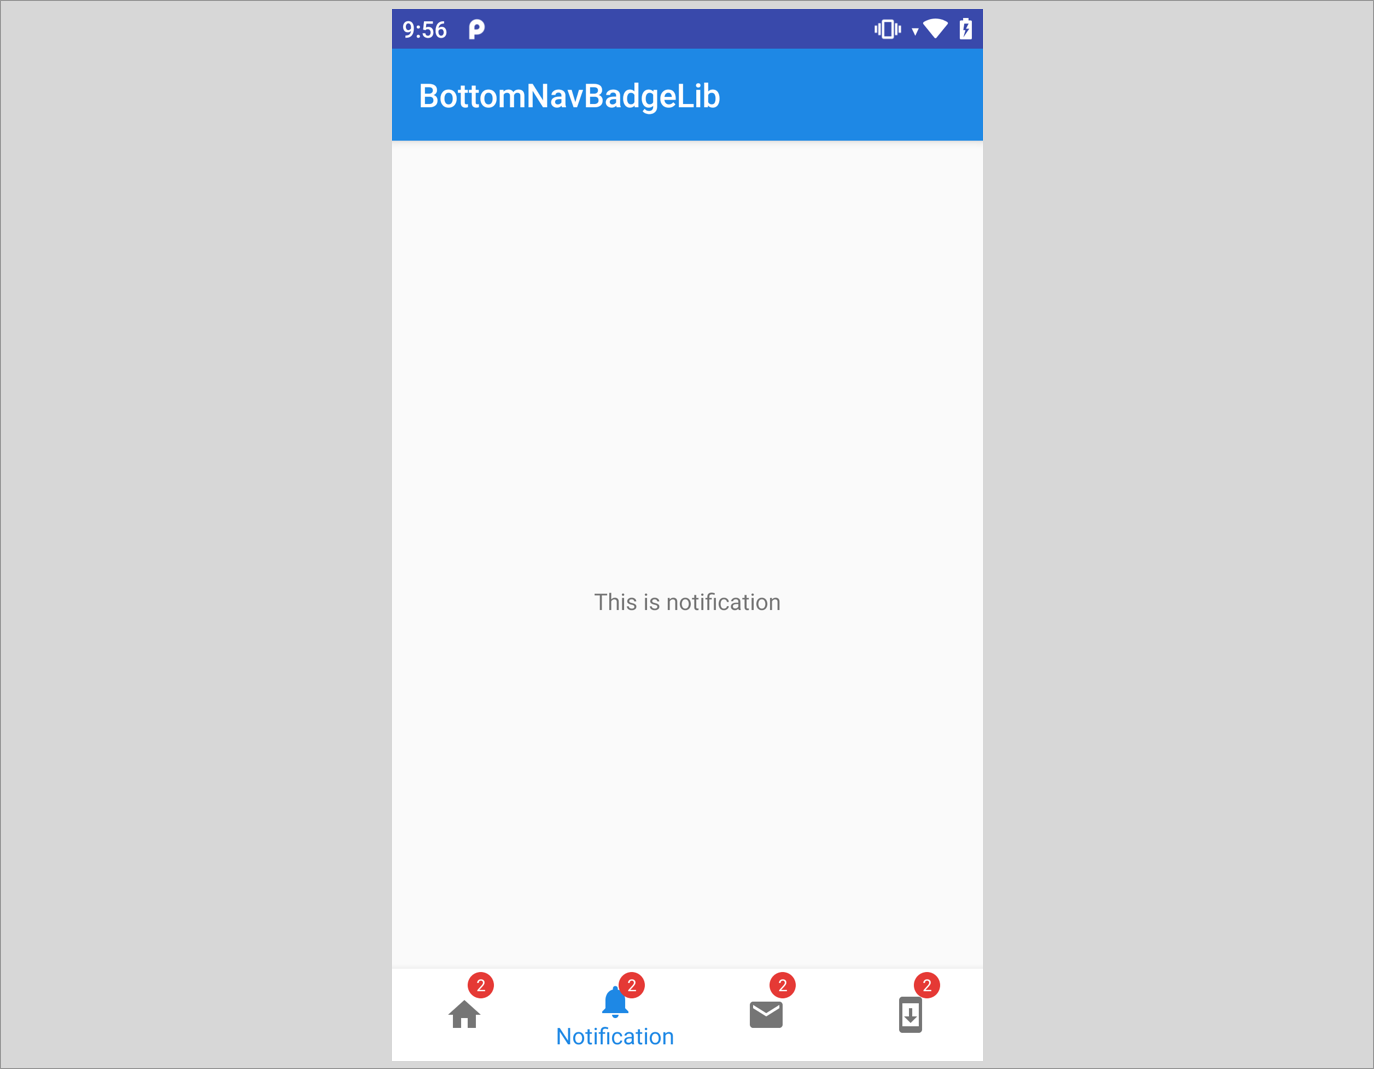
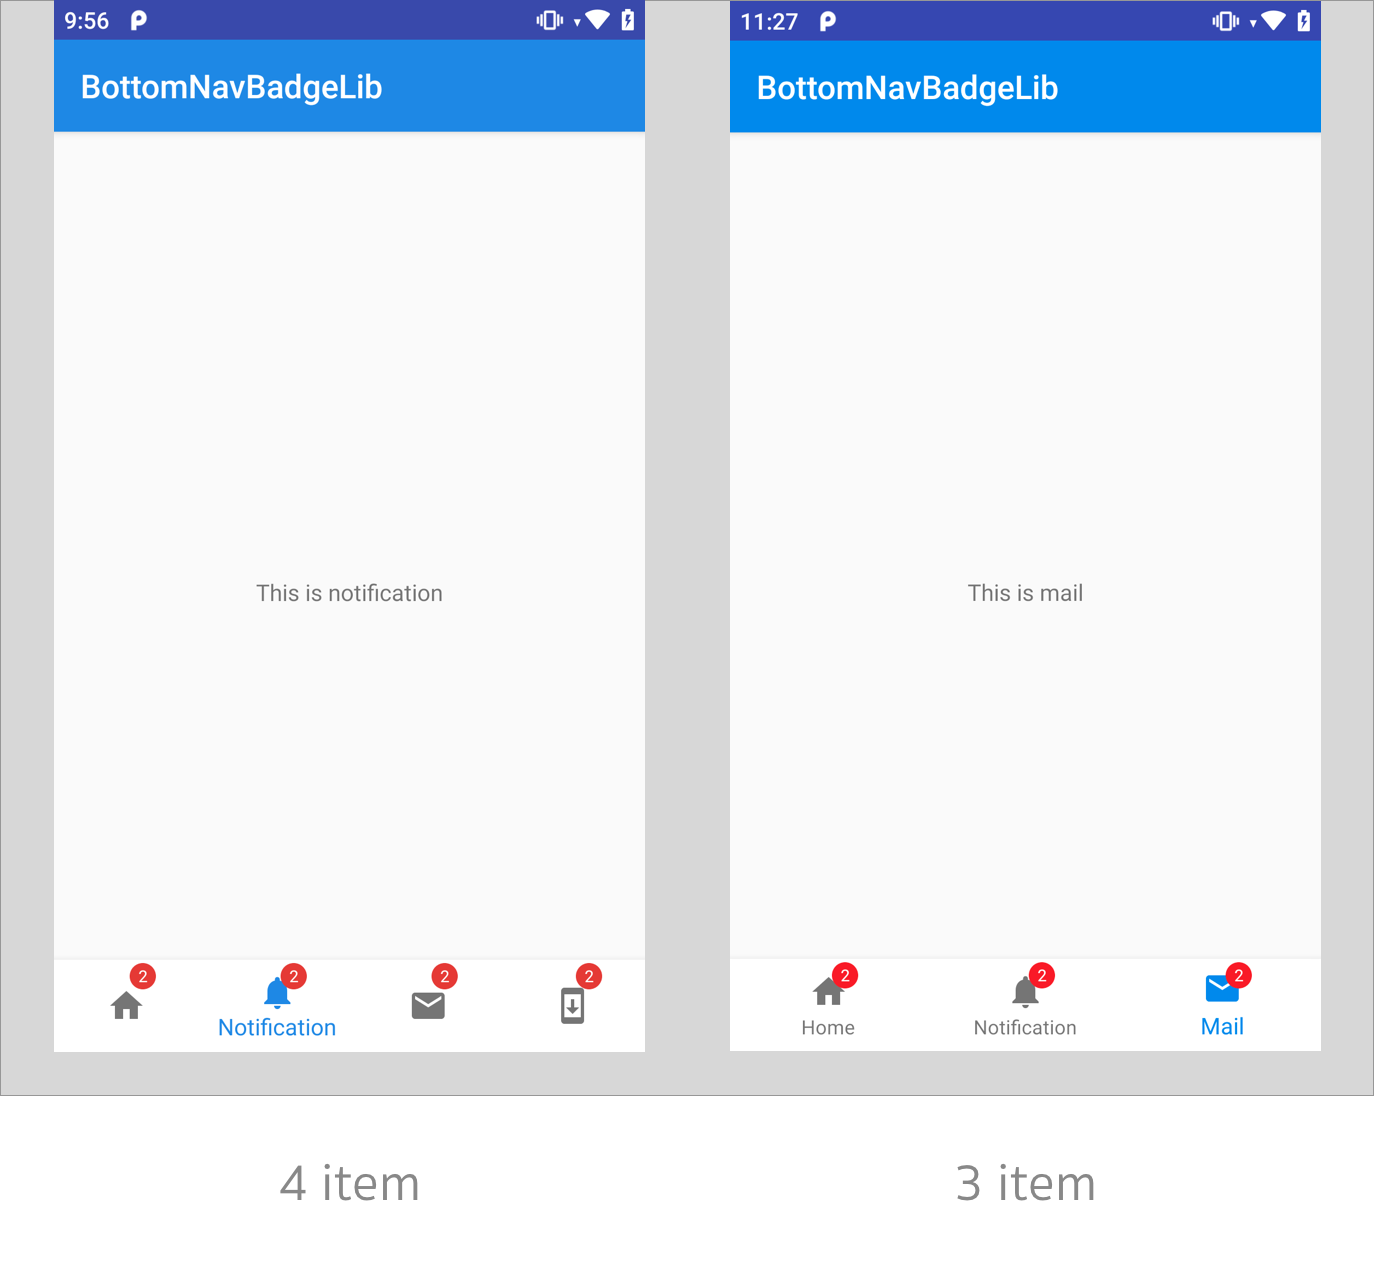
handle possible error

diff --git a/bottomnavbadge/src/main/java/com/ammarptn/bottomnavbadge/NotificationBadge.java b/bottomnavbadge/src/main/java/com/ammarptn/bottomnavbadge/NotificationBadge.java
@@ -15,8 +15,13 @@ public class NotificationBadge {
         if (bottomNavigationMenuView.getChildCount() > indexAt) {
             View v = bottomNavigationMenuView.getChildAt(indexAt);
             BottomNavigationItemView itemView = (BottomNavigationItemView) v;
-            View badge = LayoutInflater.from(bottomNavigationMenuView.getContext()).inflate(R.layout.layout_nav_bottom_badge, itemView, true);
-            return badge.findViewById(R.id.notifications_nav_badge);
+            if (itemView.findViewById(R.id.notifications_nav_badge) == null) {
+                View badge = LayoutInflater.from(bottomNavigationMenuView.getContext()).inflate(R.layout.layout_nav_bottom_badge, itemView, true);
+                return badge.findViewById(R.id.notifications_nav_badge);
+            } else {
+                return itemView.findViewById(R.id.notifications_nav_badge);
+            }
+
         } else {
             throw new IndexOutOfBoundsException(String.format("No menu item at %d", indexAt));
         }

diff --git a/app/src/main/java/com/ammarptn/bottomnavbadgelib/MainActivity.java b/app/src/main/java/com/ammarptn/bottomnavbadgelib/MainActivity.java
@@ -32,19 +32,21 @@ public class MainActivity extends AppCompatActivity {
                     title.setText("This is notification");
                 } else if (item.getItemId() == R.id.mail) {
                     title.setText("This is mail");
+                } else if (item.getItemId() == R.id.update) {
+                    title.setText("This is update");
                 }
                 return true;
             }
         });
 
-        Badge badge = NotificationBadge.getBadge(bottomNavMenu, 0);
-        badge.setNumber(2);
+
+
 
         Badge badge2 = NotificationBadge.getBadge(bottomNavMenu, 1);
         badge2.setNumber(2);
 
         Badge badge3 = NotificationBadge.getBadge(bottomNavMenu, 2);
-        badge3.setNumber(2);
+        badge3.setNumber(3);
 
 
 

diff --git a/README.md b/README.md
@@ -18,8 +18,8 @@ Step 2. Add the dependency
 ```java
 dependencies {
 
-            implementation 'androidx.appcompat:appcompat:1.0.2'
-            implementation 'com.google.android.material:material:1.1.0-alpha06'
+            implementation 'androidx.appcompat:appcompat:X.X.X'
+            implementation 'com.google.android.material:material:X.X.X'
             ...
             implementation 'com.github.ammarptn:bottomNavBadge:1.0.2'
 	}
@@ -36,6 +36,11 @@ Badge badge = NotificationBadge.getBadge(bottomNavMenu, 0);
 
 // set number to it
 badge.setNumber(2); 
+
+Badge badge1 = NotificationBadge.getBadge(bottomNavMenu, 1); 
+
+// set number to it
+badge1.setNumber(3); 
 
 ...
 .....
